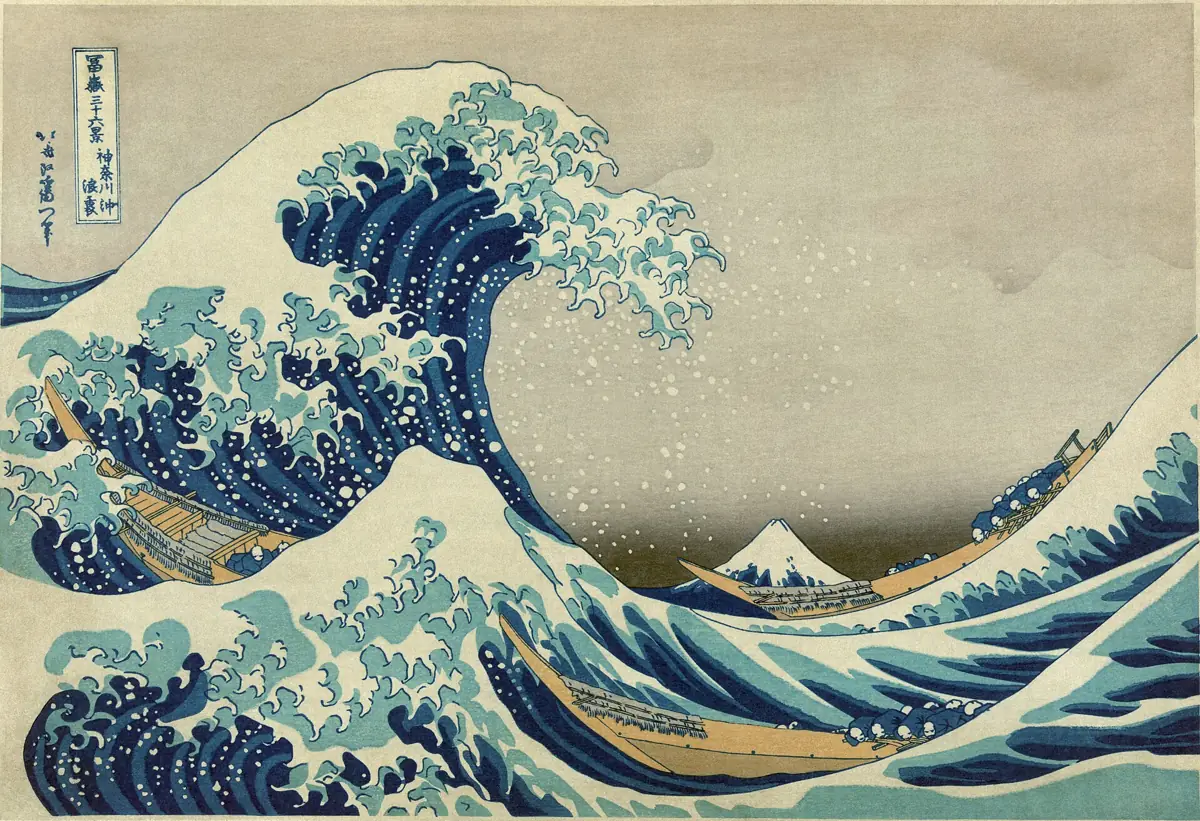
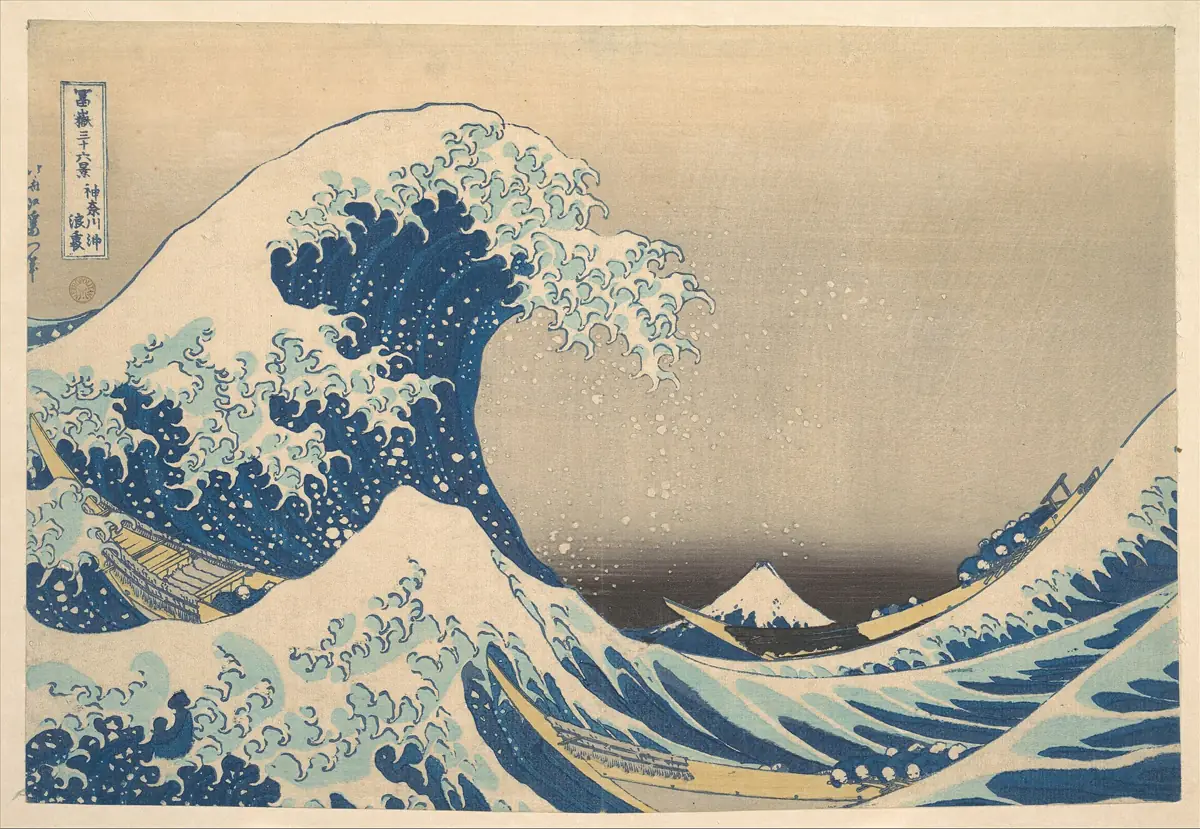
axiomx plates: verify every credit against its Commons file page
Collections, titles and years now match each file's Commons artwork
infobox. Fixes include: Shophouse plate is Bellotto, not Canaletto; Chardin
is at the Getty, not the Louvre; van Gogh's Sower is the 1889 copy after
Millet; Malevich's Suprematist Composition and the Claesz vanitas are in
private collections; Great Wave swapped from a Library of Congress later
impression to the Met's CC0 impression.

diff --git a/axiomx/plates.js b/axiomx/plates.js
@@ -3,14 +3,14 @@
 window.AXIOM_PLATES = {
 "flood-ami": [
 "Katsushika Hokusai",
-"The Great Wave off Kanagawa",
-"c. 1831",
-"Woodblock print",
-"https://commons.wikimedia.org/wiki/File:Great_Wave_off_Kanagawa2.jpg",
-"Public domain",
+"Under the Wave off Kanagawa (The Great Wave)",
+"c. 1830",
+"Metropolitan Museum of Art",
+"https://commons.wikimedia.org/wiki/File:%E5%86%A8%E5%B6%BD%E4%B8%89%E5%8D%81%E5%85%AD%E6%99%AF_%E7%A5%9E%E5%A5%88%E5%B7%9D%E6%B2%96%E6%B5%AA%E8%A3%8F-Under_the_Wave_off_Kanagawa_(Kanagawa_oki_nami_ura),_also_known_as_The_Great_Wave,_from_the_series_Thirty-six_Views_of_Mount_Fuji_(Fugaku_sanj%C5%ABrokkei)_MET_DP141063.jpg",
+"CC0",
 "A whole nation watching one wave come in — the moment before the water decides.",
 1200,
-821,
+829,
 "ukiyo-e"
 ],
 "flooddash-fb": [
@@ -29,7 +29,7 @@ window.AXIOM_PLATES = {
 "Ambrogio Lorenzetti",
 "Effects of Good Government in the City",
 "1338–39",
-"Palazzo Pubblico, Siena",
+"Museo Civico, Palazzo Pubblico, Siena",
 "https://commons.wikimedia.org/wiki/File:Ambrogio_Lorenzetti_-_Effects_of_Good_Government_in_the_city_-_Google_Art_Project.jpg",
 "Public domain",
 "The oldest picture of a town that runs well — markets open, roads clear, people at work.",
@@ -41,7 +41,7 @@ window.AXIOM_PLATES = {
 "Utagawa Hiroshige",
 "Sudden Shower over Shin-Ōhashi Bridge and Atake",
 "1857",
-"Woodblock print",
+"Library of Congress",
 "https://commons.wikimedia.org/wiki/File:Hiroshige,_Sudden_shower_over_Shin-%C5%8Chashi_bridge_and_Atake,_1857.jpg",
 "Public domain",
 "Southern rain on a bridge; a city judged by how it moves when the sky opens.",
@@ -63,9 +63,9 @@ window.AXIOM_PLATES = {
 ],
 "phuket": [
 "Katsushika Hokusai",
-"Fine Wind, Clear Morning (Red Fuji)",
-"c. 1830–32",
-"Woodblock print",
+"Fuji in Clear Weather (Red Fuji)",
+"early 1830s",
+"Cleveland Museum of Art",
 "https://commons.wikimedia.org/wiki/File:Katsushika_Hokusai_-_Fuji_in_Clear_Weather_(from_the_series_Thirty-six_Views_of_Mt._Fuji)_-_1930.189_-_Cleveland_Museum_of_Art.tif",
 "CC0",
 "An island economy lives on one view staying clear; this is that view.",
@@ -87,9 +87,9 @@ window.AXIOM_PLATES = {
 ],
 "lopburi": [
 "Giovanni Battista Piranesi",
-"The Drawbridge, Carceri plate VII",
-"1745–61",
-"Etching",
+"The Drawbridge, plate VII from Carceri d’Invenzione",
+"1745 (printed later)",
+"Cooper Hewitt, Smithsonian Design Museum",
 "https://commons.wikimedia.org/wiki/File:Giovanni_Battista_Piranesi_-_The_Drawbridge,_plate_VII_from_the_series_Carceri_d%27Invenzione_-_Google_Art_Project.jpg",
 "Public domain",
 "Old stone and new systems; an ancient city run with modern instruments.",
@@ -101,7 +101,7 @@ window.AXIOM_PLATES = {
 "Piet Mondrian",
 "Composition with Red, Yellow, Black, Blue and Grey",
 "1921",
-"Kunstmuseum Den Haag",
+"Kunstmuseum Den Haag (formerly Gemeentemuseum)",
 "https://commons.wikimedia.org/wiki/File:Composition_with_Red,_Yellow,_Black,_Blue_and_Grey_by_Piet_Mondrian,_1921.jpg",
 "Public domain",
 "A grid where every block knows its place — what a super dashboard should feel like.",
@@ -111,7 +111,7 @@ window.AXIOM_PLATES = {
 ],
 "kuching": [
 "Henri Rousseau",
-"Surprised! (Tiger in a Tropical Storm)",
+"Tiger in a Tropical Storm (Surprised!)",
 "1891",
 "National Gallery, London",
 "https://commons.wikimedia.org/wiki/File:Surprised-Rousseau.jpg",
@@ -136,7 +136,7 @@ window.AXIOM_PLATES = {
 "chula": [
 "Raphael",
 "The School of Athens",
-"1509–11",
+"1511",
 "Apostolic Palace, Vatican",
 "https://commons.wikimedia.org/wiki/File:%22The_School_of_Athens%22_by_Raffaello_Sanzio_da_Urbino.jpg",
 "Public domain",
@@ -160,7 +160,7 @@ window.AXIOM_PLATES = {
 "kmitl": [
 "Leonardo da Vinci",
 "Vitruvian Man",
-"c. 1490",
+"c. 1492",
 "Gallerie dell’Accademia, Venice",
 "https://commons.wikimedia.org/wiki/File:Vitruvian.jpg",
 "Public domain",
@@ -185,7 +185,7 @@ window.AXIOM_PLATES = {
 "Kazimir Malevich",
 "Suprematist Composition",
 "1916",
-"Stedelijk Museum, Amsterdam",
+"Private collection",
 "https://commons.wikimedia.org/wiki/File:Suprematist_Composition_-_Kazimir_Malevich.jpg",
 "Public domain",
 "Many parts floating into one arrangement — a hub that makes them cohere.",
@@ -269,7 +269,7 @@ window.AXIOM_PLATES = {
 "Katsushika Hokusai",
 "Kajikazawa in Kai Province",
 "c. 1830–32",
-"Woodblock print",
+"Metropolitan Museum of Art",
 "https://commons.wikimedia.org/wiki/File:%E5%86%A8%E5%B6%BD%E4%B8%89%E5%8D%81%E5%85%AD%E6%99%AF_%E7%94%B2%E5%B7%9E%E7%9F%B3%E7%8F%AD%E6%B2%A2-Kajikazawa_in_Kai_Province_(K%C5%8Dsh%C5%AB_Kajikazawa),_from_the_series_Thirty-six_Views_of_Mount_Fuji_(Fugaku_sanj%C5%ABrokkei)_MET_DP140973.jpg",
 "CC0",
 "A fisherman braced on a rock over fast water — watching politics means reading the current.",
@@ -387,8 +387,8 @@ window.AXIOM_PLATES = {
 ],
 "nsp": [
 "Vincent van Gogh",
-"The Sower",
-"1888",
+"The Sower (after Millet)",
+"1889",
 "Kröller-Müller Museum, Otterlo",
 "https://commons.wikimedia.org/wiki/File:The_Sower_-_Vincent_Van_Gogh.jpg",
 "Public domain",
@@ -411,7 +411,7 @@ window.AXIOM_PLATES = {
 ],
 "constitution": [
 "Rembrandt van Rijn",
-"Moses with the Ten Commandments",
+"Moses Smashing the Tablets of the Law",
 "1659",
 "Gemäldegalerie, Berlin",
 "https://commons.wikimedia.org/wiki/File:Rembrandt_-_Moses_with_the_Ten_Commandments_-_Google_Art_Project.jpg",
@@ -448,7 +448,7 @@ window.AXIOM_PLATES = {
 "tkcx": [
 "Auguste Rodin",
 "The Thinker",
-"modelled 1880",
+"modelled probably 1880, cast c. 1910",
 "Metropolitan Museum of Art",
 "https://commons.wikimedia.org/wiki/File:The_Thinker_MET_131255.jpg",
 "CC0",
@@ -484,7 +484,7 @@ window.AXIOM_PLATES = {
 "ascn": [
 "Raphael",
 "The Marriage of the Virgin",
-"1504",
+"early 1500s",
 "Pinacoteca di Brera, Milan",
 "https://commons.wikimedia.org/wiki/File:Raphael_Marriage_of_the_Virgin.jpg",
 "Public domain",
@@ -496,8 +496,8 @@ window.AXIOM_PLATES = {
 "dao": [
 "Claude Monet",
 "Water Lilies",
-"c. 1915–26",
-"Monet’s Water Lilies series",
+"1915",
+"Bavarian State Painting Collections, Munich",
 "https://commons.wikimedia.org/wiki/File:Claude_Monet_-_Seerosen.jpg",
 "Public domain",
 "Colour as a living system — palette as ecology.",
@@ -603,9 +603,9 @@ window.AXIOM_PLATES = {
 ],
 "time-pop": [
 "Pieter Claesz",
-"Vanitas Still Life with Skull",
+"Vanitas Still Life with Skull, Globe, Shells and Jewellery Box",
 "1653",
-"Dutch Golden Age",
+"Private collection",
 "https://commons.wikimedia.org/wiki/File:Pieter_Claesz_-_Vanitas_still_life_with_skull,_globe,_shells,_jewelry_box_and_other_objects.jpg",
 "Public domain",
 "A skull, a watch and a guttering candle — the old way of saying time pops.",
@@ -615,9 +615,9 @@ window.AXIOM_PLATES = {
 ],
 "luma-house": [
 "Vilhelm Hammershøi",
-"Interior with Young Woman Seen from the Back",
+"Interior with Young Woman from Behind",
 "1904",
-"Randers Kunstmuseum",
+"Randers Museum of Art, Denmark",
 "https://commons.wikimedia.org/wiki/File:Vilhelm_Hammershoi_-_Interieur_mit_Rueckenansicht_einer_Frau_-_1903-1904_-_Randers_Kunstmuseum.jpg",
 "Public domain",
 "Light in a quiet room — the house as a lamp.",
@@ -628,7 +628,7 @@ window.AXIOM_PLATES = {
 "openclaw-setup": [
 "Auguste Rodin",
 "The Hand of God",
-"modelled c. 1896–1902",
+"modelled c. 1896–1902, carved c. 1907",
 "Metropolitan Museum of Art",
 "https://commons.wikimedia.org/wiki/File:The_Hand_of_God_MET_131219.jpg",
 "CC0",
@@ -638,10 +638,10 @@ window.AXIOM_PLATES = {
 "sculpture"
 ],
 "shophouse-metropolis": [
-"Canaletto",
-"The Grand Canal from the Punta della Dogana",
+"Bernardo Bellotto",
+"View of the Grand Canal from Punta della Dogana",
 "18th century",
-"Venetian veduta",
+"Ca’ Rezzonico, Venice (Egidio Martini collection)",
 "https://commons.wikimedia.org/wiki/File:(Venice)_Veduta_del_Canal_Grande_dalla_Punta_della_Dogana_-_Bernardo_Bellotto.jpg",
 "Public domain",
 "Street-front houses shoulder to shoulder; a metropolis made of shophouses.",
@@ -664,7 +664,7 @@ window.AXIOM_PLATES = {
 "rag": [
 "Antonello da Messina",
 "Saint Jerome in His Study",
-"c. 1475",
+"c. 1474",
 "National Gallery, London",
 "https://commons.wikimedia.org/wiki/File:Antonello_da_Messina_-_St_Jerome_in_his_study_-_National_Gallery_London.jpg",
 "Public domain",
@@ -723,9 +723,9 @@ window.AXIOM_PLATES = {
 ],
 "colors": [
 "Johann Wolfgang von Goethe",
-"Colour Wheel",
+"Colour wheel (Farbenkreis)",
 "1809",
-"Freies Deutsches Hochstift, Frankfurt",
+"Freies Deutsches Hochstift – Frankfurter Goethe-Museum",
 "https://commons.wikimedia.org/wiki/File:Goethe,_Farbenkreis_zur_Symbolisierung_des_menschlichen_Geistes-_und_Seelenlebens,_1809.jpg",
 "Public domain",
 "The first serious attempt to order colour for people, not physics.",
@@ -735,9 +735,9 @@ window.AXIOM_PLATES = {
 ],
 "axiom-dc": [
 "Oliver Byrne",
-"The Elements of Euclid (plate)",
+"The First Six Books of the Elements of Euclid (plate)",
 "1847",
-"Printed book",
+"Printed book, London",
 "https://commons.wikimedia.org/wiki/File:Byrne_Euclid_p9_image.png",
 "Public domain",
 "Axioms, drawn in primary colours — design core in its purest form.",
@@ -749,7 +749,7 @@ window.AXIOM_PLATES = {
 "Theo van Doesburg",
 "Counter-Composition VI",
 "1925",
-"Tate, London",
+"Tate",
 "https://commons.wikimedia.org/wiki/File:Theo_van_Doesburg_022.jpg",
 "Public domain",
 "Rams and the subway map share one ancestor: the disciplined line.",
@@ -759,9 +759,9 @@ window.AXIOM_PLATES = {
 ],
 "luggage-tag": [
 "Utagawa Hiroshige",
-"Nihonbashi, Leaving Edo (Tōkaidō)",
-"1833–34",
-"Woodblock print",
+"Nihonbashi (Leaving Edo), Fifty-Three Stations of the Tōkaidō",
+"1832–34",
+"Hood Museum of Art, Dartmouth College",
 "https://commons.wikimedia.org/wiki/File:Nihonbashi_(Leaving_Edo,_the_Bridge_of_Japan),_from_the_series_Fifty-Three_Stations_of_the_Tokaido_Road_(Tokaido_Gojusantsugi_no_Uchi),_Utagawa_Hiroshige,_1832-1834_-PR.972.63.1.tif",
 "Public domain",
 "Departure as a print; every journey begins with a label.",
@@ -785,7 +785,7 @@ window.AXIOM_PLATES = {
 "Jean-Siméon Chardin",
 "Still Life with Peaches, a Silver Goblet, Grapes and Walnuts",
 "c. 1759–60",
-"Musée du Louvre, Paris",
+"J. Paul Getty Museum, Los Angeles",
 "https://commons.wikimedia.org/wiki/File:Jean-Sim%C3%A9on_Chardin_-_Still_Life_with_Peaches,_a_Silver_Goblet,_Grapes,_and_Walnuts_-_86.PA.544_-_J._Paul_Getty_Museum.jpg",
 "Public domain",
 "Local produce, honestly shown — the dignity of the provincial product.",
@@ -795,7 +795,7 @@ window.AXIOM_PLATES = {
 ],
 "superleague": [
 "Théodore Géricault",
-"The 1821 Derby at Epsom",
+"The Epsom Derby in 1821",
 "1821",
 "Musée du Louvre, Paris",
 "https://commons.wikimedia.org/wiki/File:Le_Derby_de_1821_%C3%A0_Epsom_-_Th%C3%A9odore_G%C3%A9ricault_-_Mus%C3%A9e_du_Louvre_Peintures_MI_708_-_photo_2.jpg",
